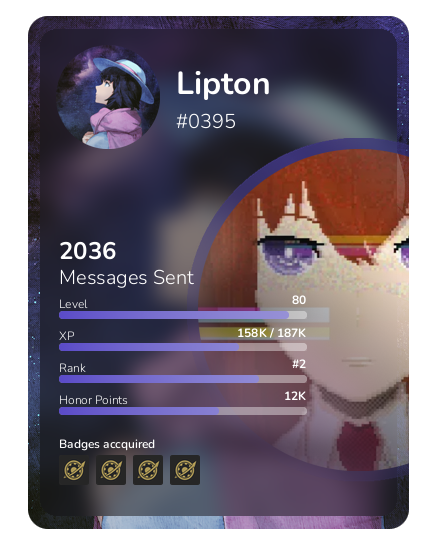
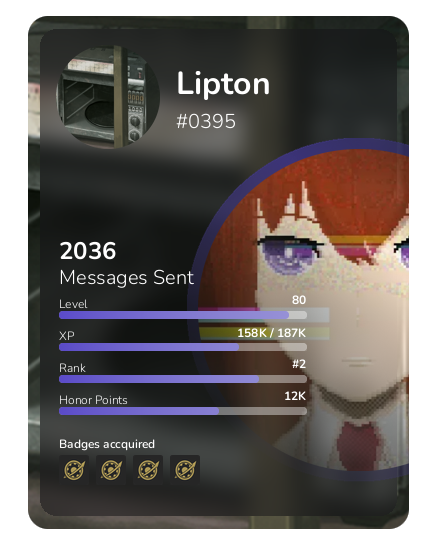
sending output from drawing to channel

diff --git a/app/utilities/drawing/master.py b/app/utilities/drawing/master.py
@@ -3,18 +3,20 @@ import os
 import PIL
 from PIL import Image, ImageDraw, ImageOps, ImageFont, ImageEnhance, ImageFilter
 from pathlib import Path
+import requests
+from io import BytesIO
 
 # fixing issues regarding current working directory
 if Path(Path.cwd()).stem != "drawing":
     from .utils import *
+    abspath = os.path.abspath(__file__)
+    ipath = os.path.dirname(abspath) # import path
+    os.chdir(ipath)
 else:
     from utils import *
 
-abspath = os.path.abspath(__file__)
-ipath = os.path.dirname(abspath) # import path
-os.chdir(ipath)
 
-def drawProfileCard():
+def drawProfileCard(avatar_url):
 
     #####################
     #  SETTING OFFSETS  #
@@ -35,7 +37,7 @@ def drawProfileCard():
     #########################
 
     font = ImageFont.truetype("fonts/Nunito-VariableFont_wght.ttf", 16)
-    pfp_original = Image.open('pfp.png')
+    pfp_original = Image.open( requests.get(avatar_url, stream=True).raw )
     server_original = Image.open('server_icon.png')
     full_background = PIL.Image.new(mode="RGBA", size=(437, 545))
     background = PIL.Image.new(mode="RGBA", size=(381, 513), color=(50, 100, 150, 255))
@@ -194,7 +196,13 @@ def drawProfileCard():
     ##########################################
 
     full_background.save("final_output.png")
+    profile_card = full_background
 
-    return "uwu"
+    # converting final image to bytes
+    bytes = BytesIO()
+    profile_card.save(bytes, format="PNG")
+    bytes.seek(0)
 
-drawProfileCard()
+    return bytes
+
+#drawProfileCard()

diff --git a/app/modules/info/hiddenprofilecard.py b/app/modules/info/hiddenprofilecard.py
@@ -3,9 +3,8 @@ from discord.ext import commands
 from discord.ext.commands import Context
 
 from app.utilities import logger
-from app.utilities.drawing import master
+import app.utilities.drawing.master as drawing
 
-print(master.drawProfileCard())
 
 ContextType = commands.Context
 
@@ -18,8 +17,15 @@ class Hiddenprofilecard(commands.Cog):
     #async def hiddenprofilecard(self, ctx: Context):
     async def hpc(self, ctx: Context, member: discord.Member = None):
         logger.info("Received 'Hiddenprofilecard' command...")
-        print(ctx.message.author.avatar.url)
-        return await ctx.send("Hiddenprofilecard hello")
+
+        # checking if any mentions were sent
+        if ctx.message.mentions:
+            for mention in ctx.message.mentions:
+                profile_card = discord.File( drawing.drawProfileCard(mention.avatar.url), filename="profile_card.png" )
+                await ctx.send("SEX", file=profile_card)
+            return True
+        else:
+            return await ctx.send(ctx.message.author.avatar.url)
 
 
 def setup(bot):
